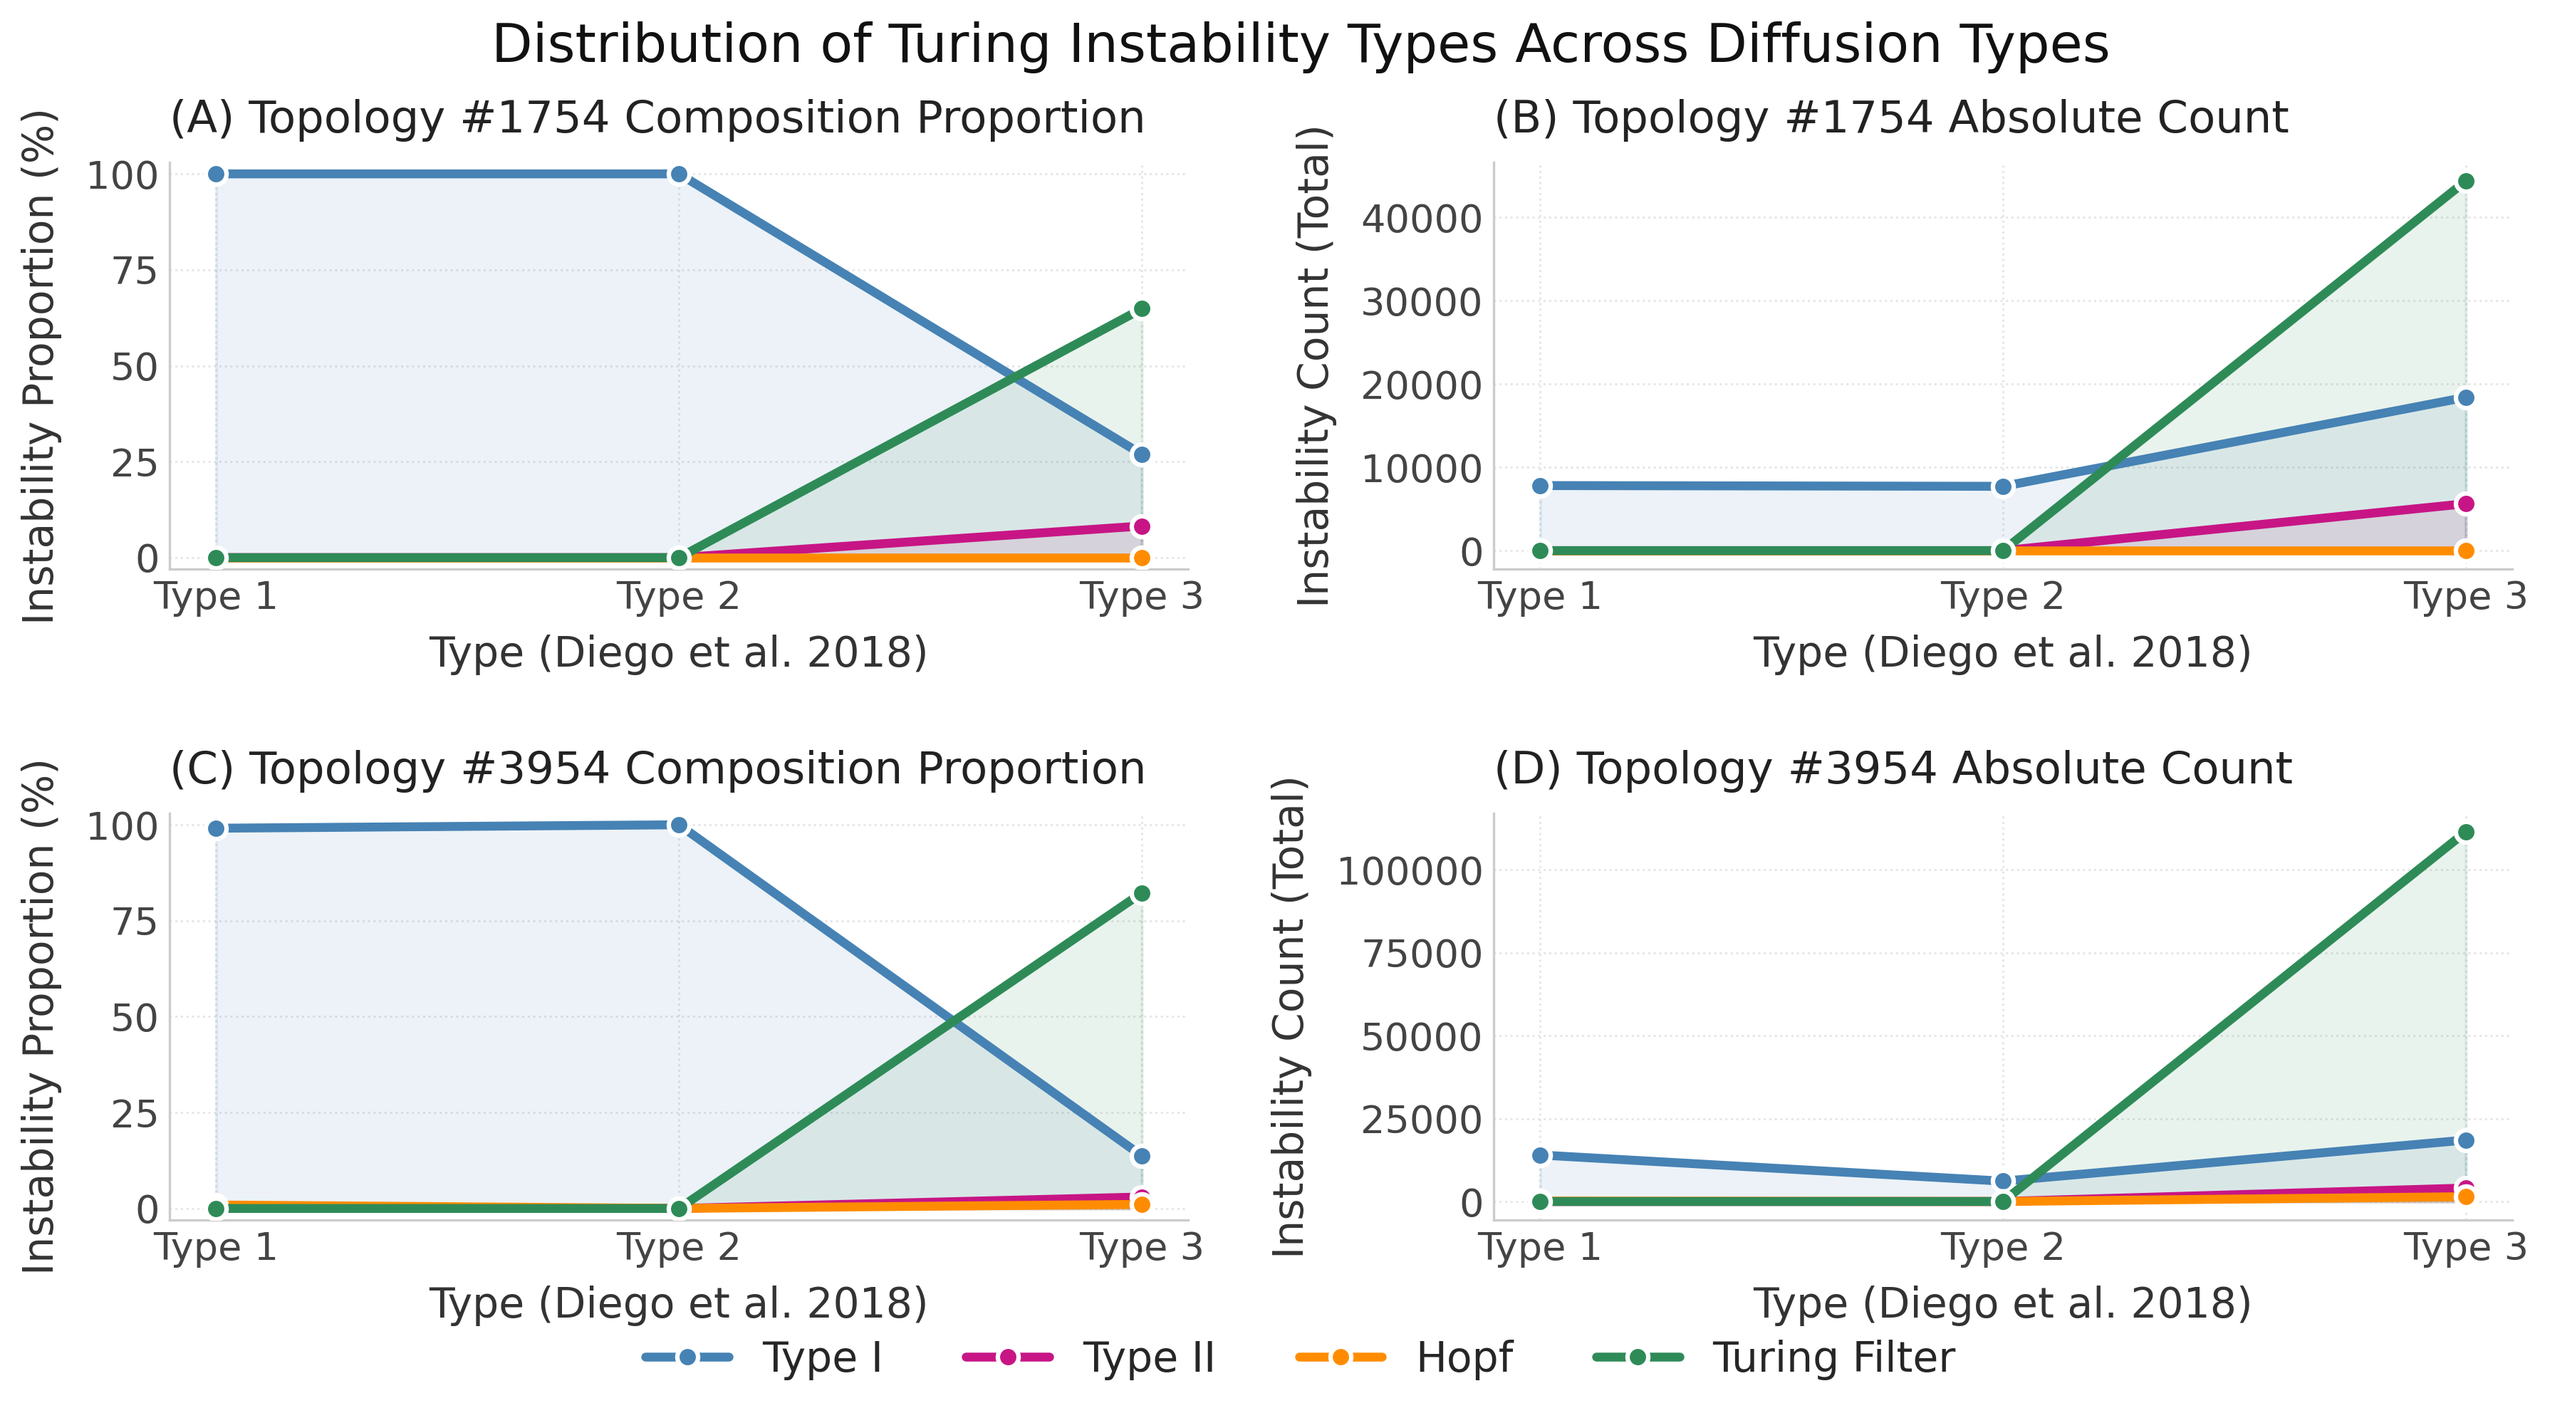
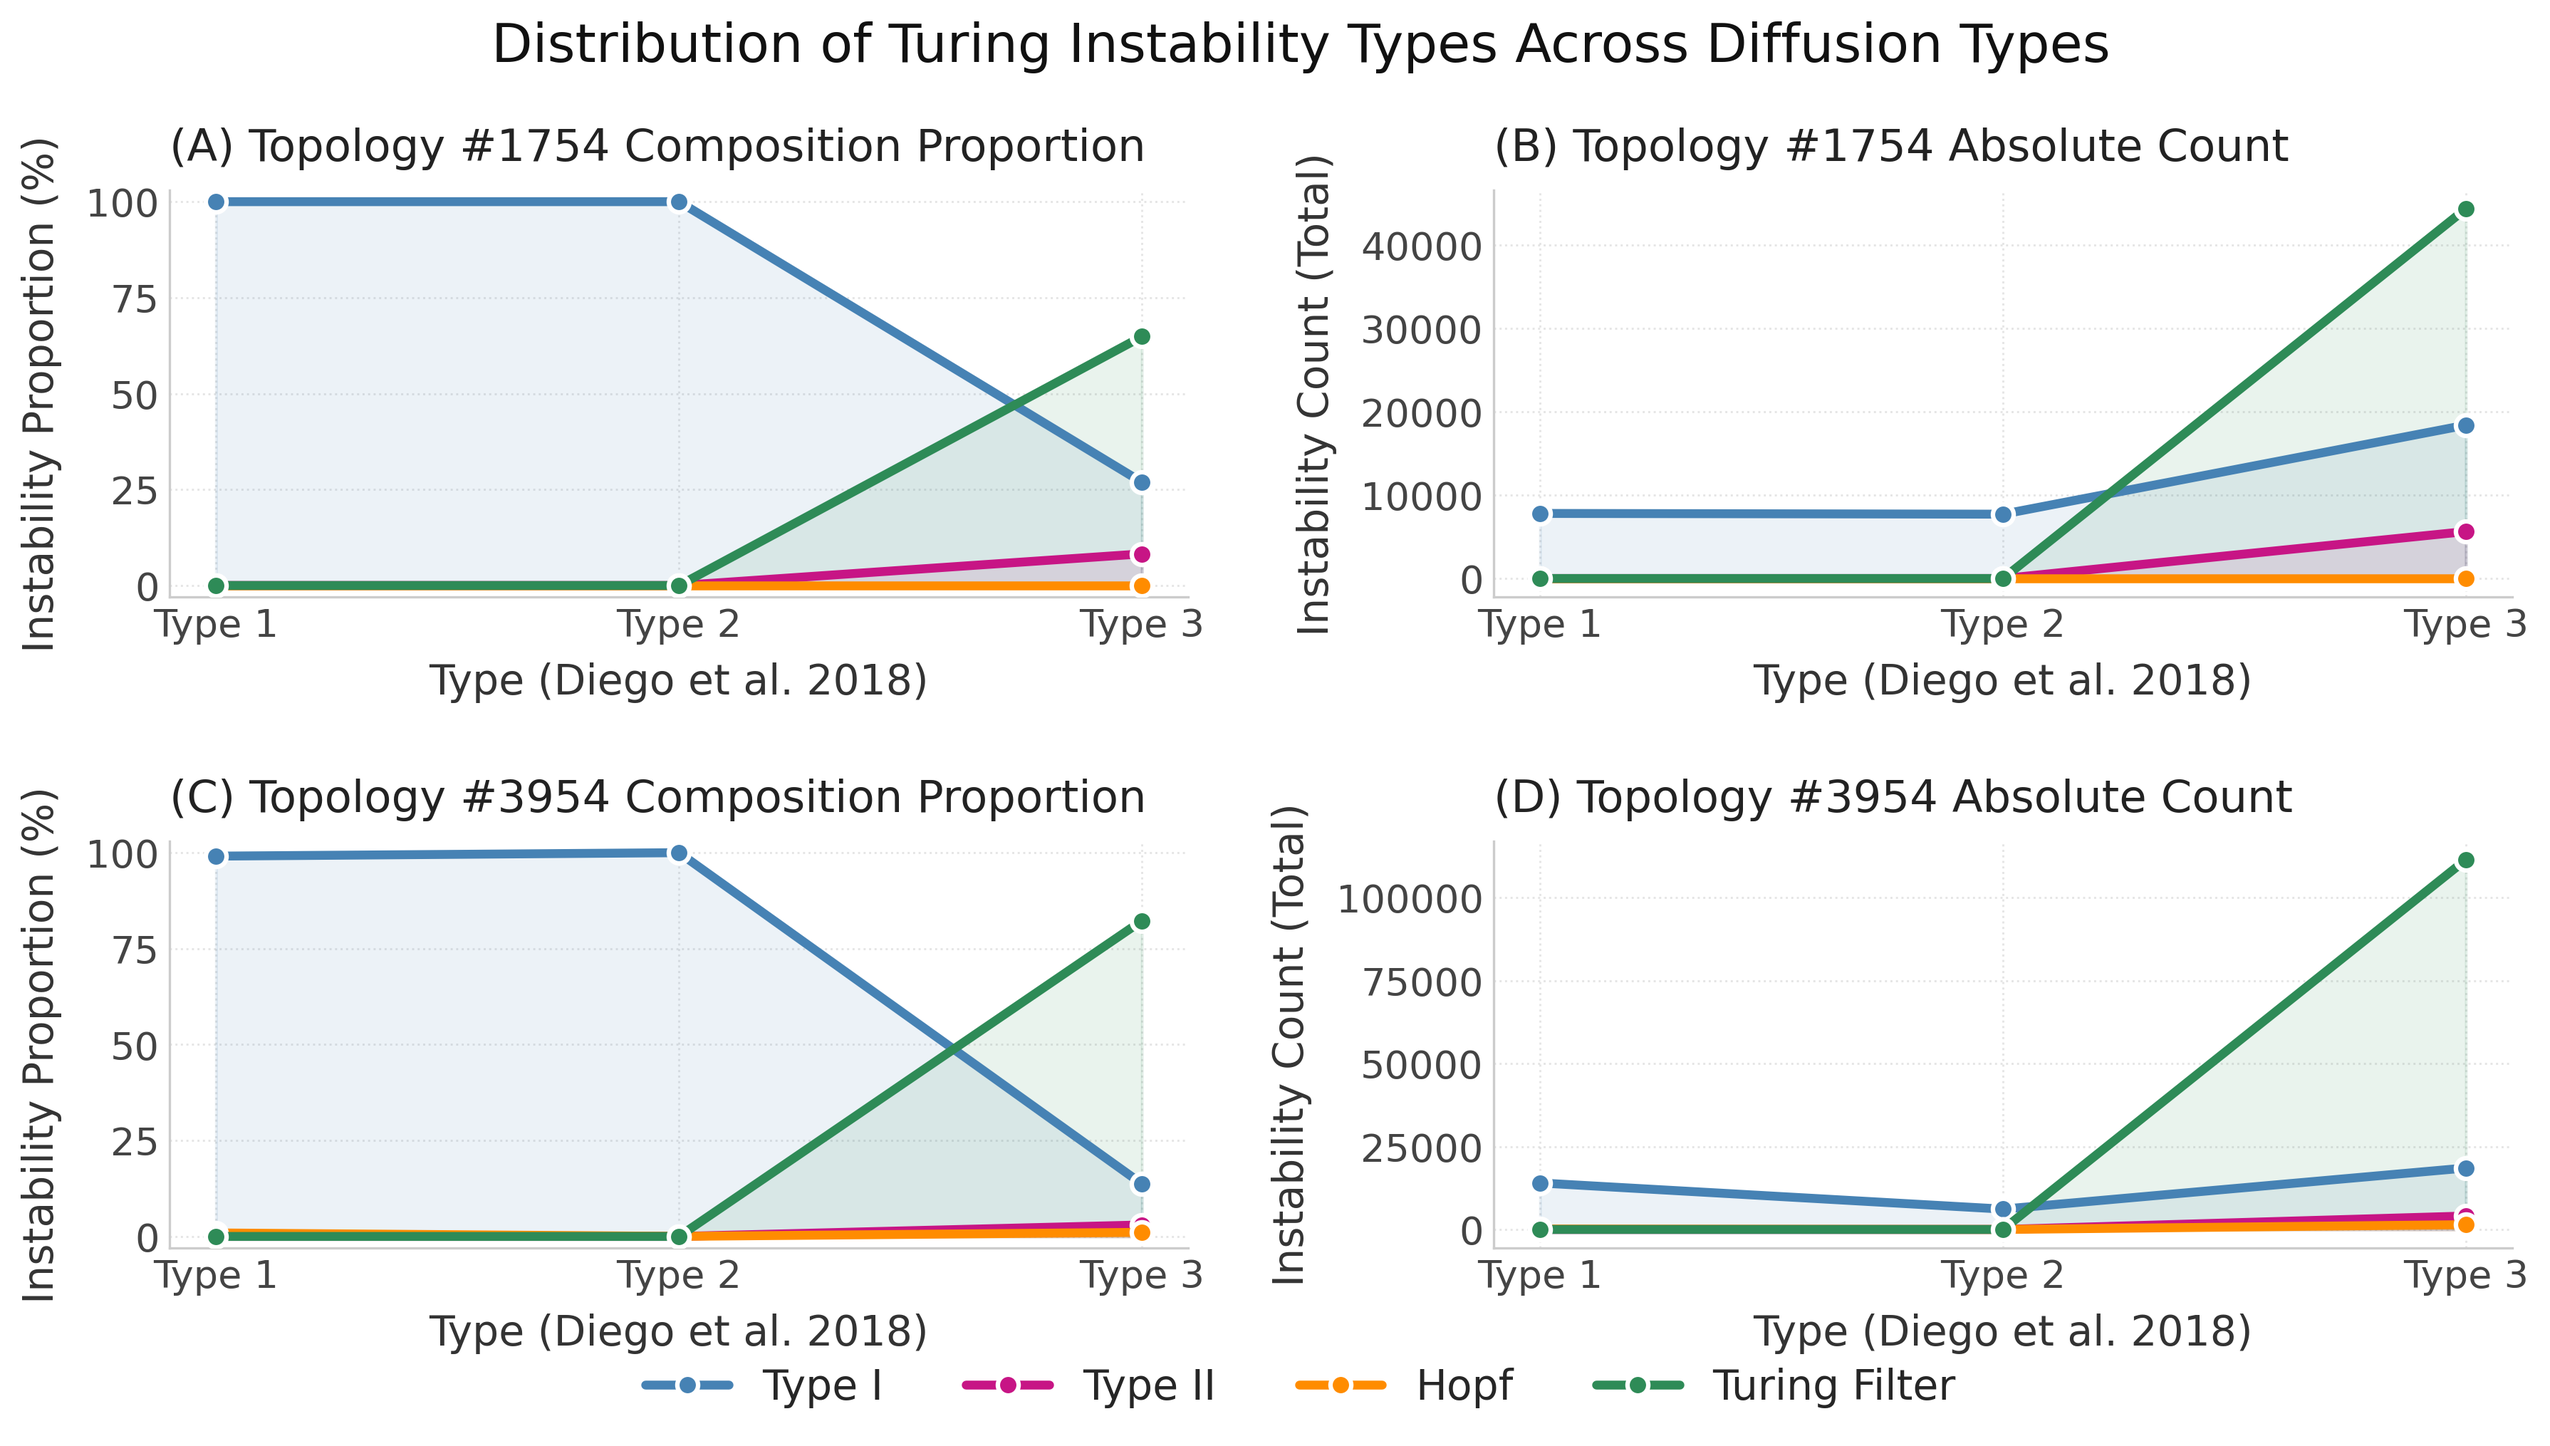
new plots

diff --git a/TopologyRanking/results-compare-lhs.py b/TopologyRanking/results-compare-lhs.py
@@ -169,7 +169,7 @@ def fig_all_patterns_profile_trends_complete(df):
             ax.spines["left"].set_color("#cccccc")
             ax.spines["bottom"].set_color("#cccccc")
 
-    plt.suptitle("Distribution of Turing Instability Types Across Diffusion Types", fontsize=18, y=0.97,ha="center",color="#111111")
+    plt.suptitle("Distribution of Turing Instability Types Across Diffusion Types", fontsize=18, y=0.99,ha="center",color="#111111")
 
     legend_handles = [mlines.Line2D([], [], color=c,linewidth=3.0, marker="o", markersize=7, markeredgecolor="white", markeredgewidth=1.5, label=l) for l, c in PATTERN_COLORS.items()]
     
@@ -303,7 +303,7 @@ def fig_pseudo_phase_combined(df):
     cbar = fig.colorbar(sc, cax=cbar_ax)
     cbar.set_label("Robustness of Turing Type I", fontsize=14)
     
-    fig.suptitle(f"Phase Diagram Across Diffusion Rate Combinations for Topologies {' and '.join(topo_order)}", fontsize=18, ha="center")
+    fig.suptitle(f"Phase Diagram Across Diffusion Rate Combinations for {' and '.join(topo_order)}", fontsize=18, ha="center")
     fig.subplots_adjust(left=0.06, right=0.84, top=0.85, bottom=0.12, wspace=0.2, hspace=0.2)
     
     save(fig, "thesis_combined_phase_diagram")
